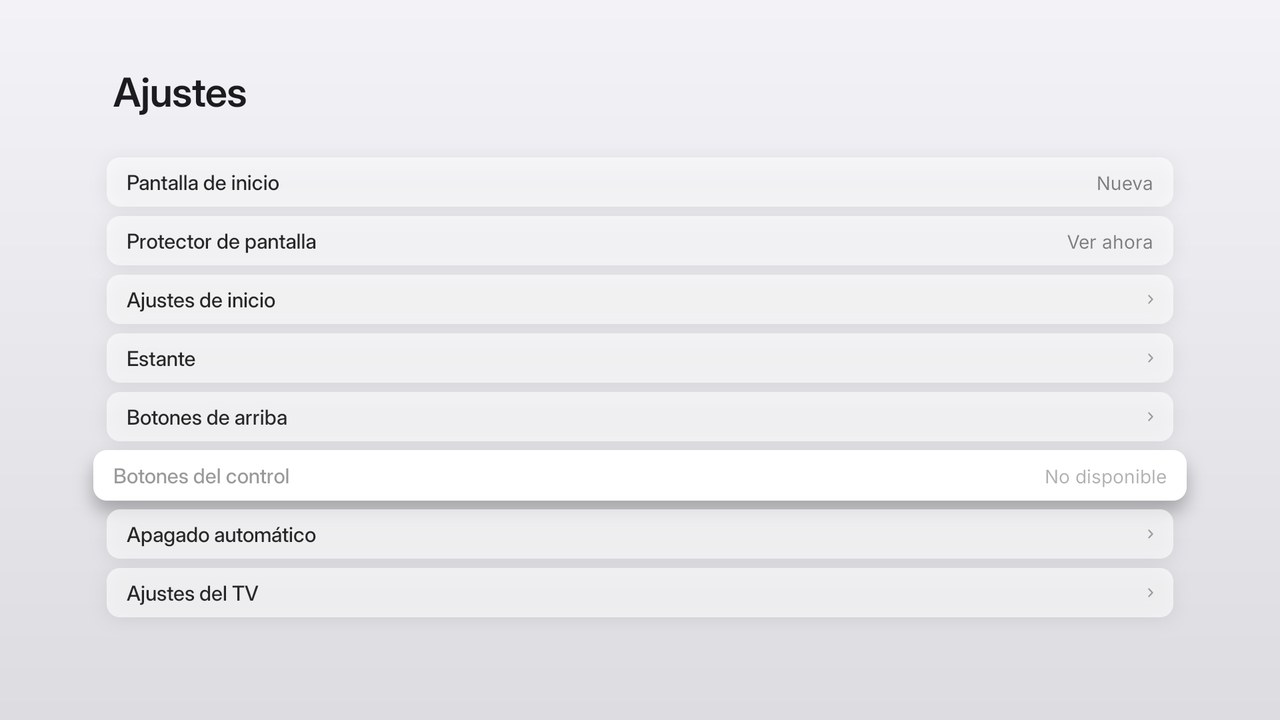
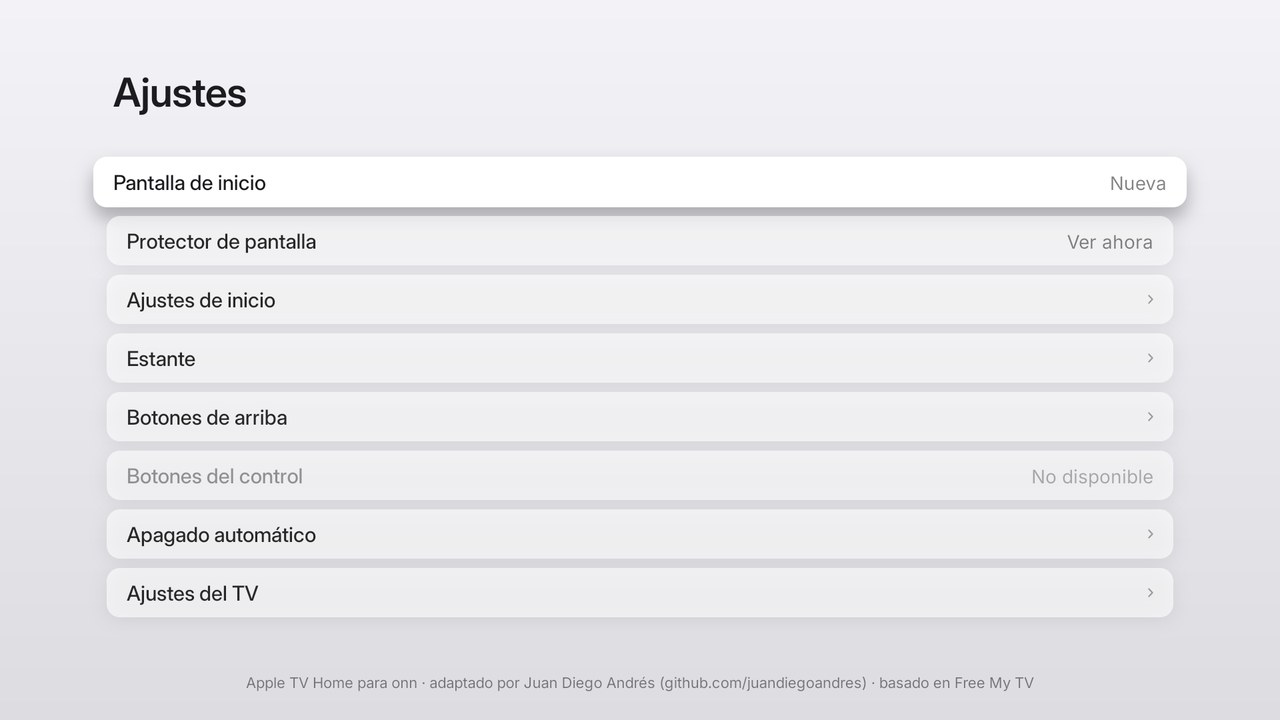
Watch in Xuper ready out of the box, more screenshots
Ships search-app.json for Xuper 4.34, adds the shortcuts bar, Xuper search and
settings screenshots, and documents the button in both languages.

Claude-Session: https://claude.ai/code/session_01SVcSnBLXaGJ7K4CqCRSMj9

diff --git a/README.md b/README.md
@@ -26,8 +26,9 @@ Adapted by **Juan Diego Andrés** ([@juandiegoandres](https://github.com/juandie
   - **My tastes.** A three-round test with classics and series that have a clear style, from very different genres:
     documentaries, biographies, horror, comedy, anime and more. Mark what you like and the backdrops follow your
     taste, mixed with new releases and trends.
-- **"Watch in Stremio" and "Watch in your app".** Press ↑ from the apps and the title's buttons open it directly. The
-  second button can drive any app that has its own search screen; you set it up once (see below).
+- **"Watch in Xuper" and "Watch in Stremio".** Press ↑ from the apps and the title's buttons open it directly. Xuper
+  has no links into a title, so the button opens it, types the title on Xuper's own keyboard and opens the result. It
+  can be set up for any other app with its own search screen (see below).
 - **Big, flat colour tiles** for your apps, with the focused app's name shown large, as on Apple TV.
 - **Top bar:** the time, a Wi-Fi pill showing your network's name (it opens the Wi-Fi settings), and a **Free up
   memory** button that closes background apps and tells you how many MB it freed.
@@ -37,9 +38,17 @@ Adapted by **Juan Diego Andrés** ([@juandiegoandres](https://github.com/juandie
 
 ![Title buttons](screenshots/home-buttons.jpg)
 
-| My tastes | Trends by country | Settings |
-|---|---|---|
-| ![Taste test](screenshots/taste-test.jpg) | ![Country](screenshots/country.jpg) | ![Settings](screenshots/settings.jpg) |
+| My tastes | Trends by country |
+|---|---|
+| ![Taste test](screenshots/taste-test.jpg) | ![Country](screenshots/country.jpg) |
+
+| Shortcuts bar (↓) | Settings |
+|---|---|
+| ![Drawer](screenshots/drawer.jpg) | ![Settings](screenshots/settings.jpg) |
+
+| "Watch in Xuper": the title typed for you | …and the movie, ready to play |
+|---|---|
+| ![Xuper search](screenshots/xuper-search.jpg) | ![Result](screenshots/search-in-app.jpg) |
 
 ## Lightweight
 
@@ -86,17 +95,20 @@ You need the onn on the same Wi-Fi as a computer (Mac, Linux or Windows).
   gets turned off. In YouTube, use *Link with TV code* instead.
 - **If the Wi-Fi was saved during first setup**, the switch asks you to forget the network and join it again first.
 
-## "Watch in your app" (optional)
+## "Watch in Xuper" (or another app)
 
 Some streaming apps have no links into a title. This button opens such an app, taps its search box, types the title on
 the app's own on-screen keyboard and opens the first result. Before every step it checks that the right screen is
 showing, so it never types into another app.
 
-1. Copy `app/assets/search-app.example.json` to `app/assets/search-app.json` (it's gitignored).
+It comes ready for **Xuper** (`app/assets/search-app.json`, tested with version 4.34). To use another app instead:
+
+1. Copy `app/assets/search-app.example.json` over `app/assets/search-app.json`.
 2. Fill in your app's package, its activities and the screen positions (on a 1920×1080 screen) of the search button,
    the keyboard, *search* and the first result. The easiest way is to let an AI assistant do it with the prompt below:
    it opens the app, takes screenshots and measures the positions.
-3. Build and install again. Without that file you only get the **Stremio** button.
+3. Build and install again. If you delete that file, you only get the **Stremio** button. If an app update moves its
+   screen around, measure the positions again.
 
 ## Quick start with an AI assistant
 
@@ -144,7 +156,8 @@ Adaptada por **Juan Diego Andrés** ([@juandiegoandres](https://github.com/juand
   - **Mis gustos.** Una prueba de tres rondas con clásicos y series de estilo marcado, de géneros muy distintos:
     documentales, biografías, terror, comedia, anime y más. Marcas lo que te gusta y los fondos siguen tus gustos,
     mezclados con estrenos y tendencias.
-- **«Ver en Stremio» y «Ver en tu app».** Presiona ↑ desde las apps y los botones del título lo abren directamente. El
+- **«Ver en Xuper» y «Ver en Stremio».** Presiona ↑ desde las apps y los botones del título lo abren directamente. Xuper
+  no tiene enlaces a un título, así que el botón la abre, escribe el título en su teclado y abre el resultado. El
   segundo botón puede manejar cualquier app que tenga su propia pantalla de búsqueda; se configura una vez (ver abajo).
 - **Mosaicos grandes de color plano** para tus apps, con el nombre de la app seleccionada en grande, como en Apple TV.
 - **Barra superior:** la hora, una píldora de Wi-Fi con el nombre de tu red (abre los ajustes de Wi-Fi) y un botón
@@ -189,17 +202,20 @@ Necesitas el onn en la misma red Wi-Fi que un computador (Mac, Linux o Windows).
 - **Si el Wi-Fi se guardó durante la configuración inicial**, el cambio te pide primero olvidar la red y volver a
   conectarte.
 
-## «Ver en tu app» (opcional)
+## «Ver en Xuper» (u otra app)
 
 Algunas apps de streaming no tienen enlaces directos a un título. Este botón abre esa app, toca su buscador, escribe
 el título en el teclado de la propia app y abre el primer resultado. Antes de cada paso revisa que esté en la
 pantalla correcta, así que nunca escribe en otra app.
 
-1. Copia `app/assets/search-app.example.json` a `app/assets/search-app.json` (está en `.gitignore`).
+Viene lista para **Xuper** (`app/assets/search-app.json`, probada con la versión 4.34). Para usar otra app:
+
+1. Copia `app/assets/search-app.example.json` encima de `app/assets/search-app.json`.
 2. Llena el paquete de tu app, sus actividades y las posiciones en pantalla (en 1920×1080) del botón de búsqueda, el
    teclado, *buscar* y el primer resultado. Lo más fácil es pedírselo a un asistente de IA con el prompt de arriba: él
    abre la app, toma capturas y mide las posiciones.
-3. Compila e instala de nuevo. Sin ese archivo solo aparece el botón **Stremio**.
+3. Compila e instala de nuevo. Si borras ese archivo, solo aparece el botón **Stremio**. Si una actualización de la app
+   mueve su pantalla, vuelve a medir las posiciones.
 
 ## Inicio rápido con un asistente de IA
 
